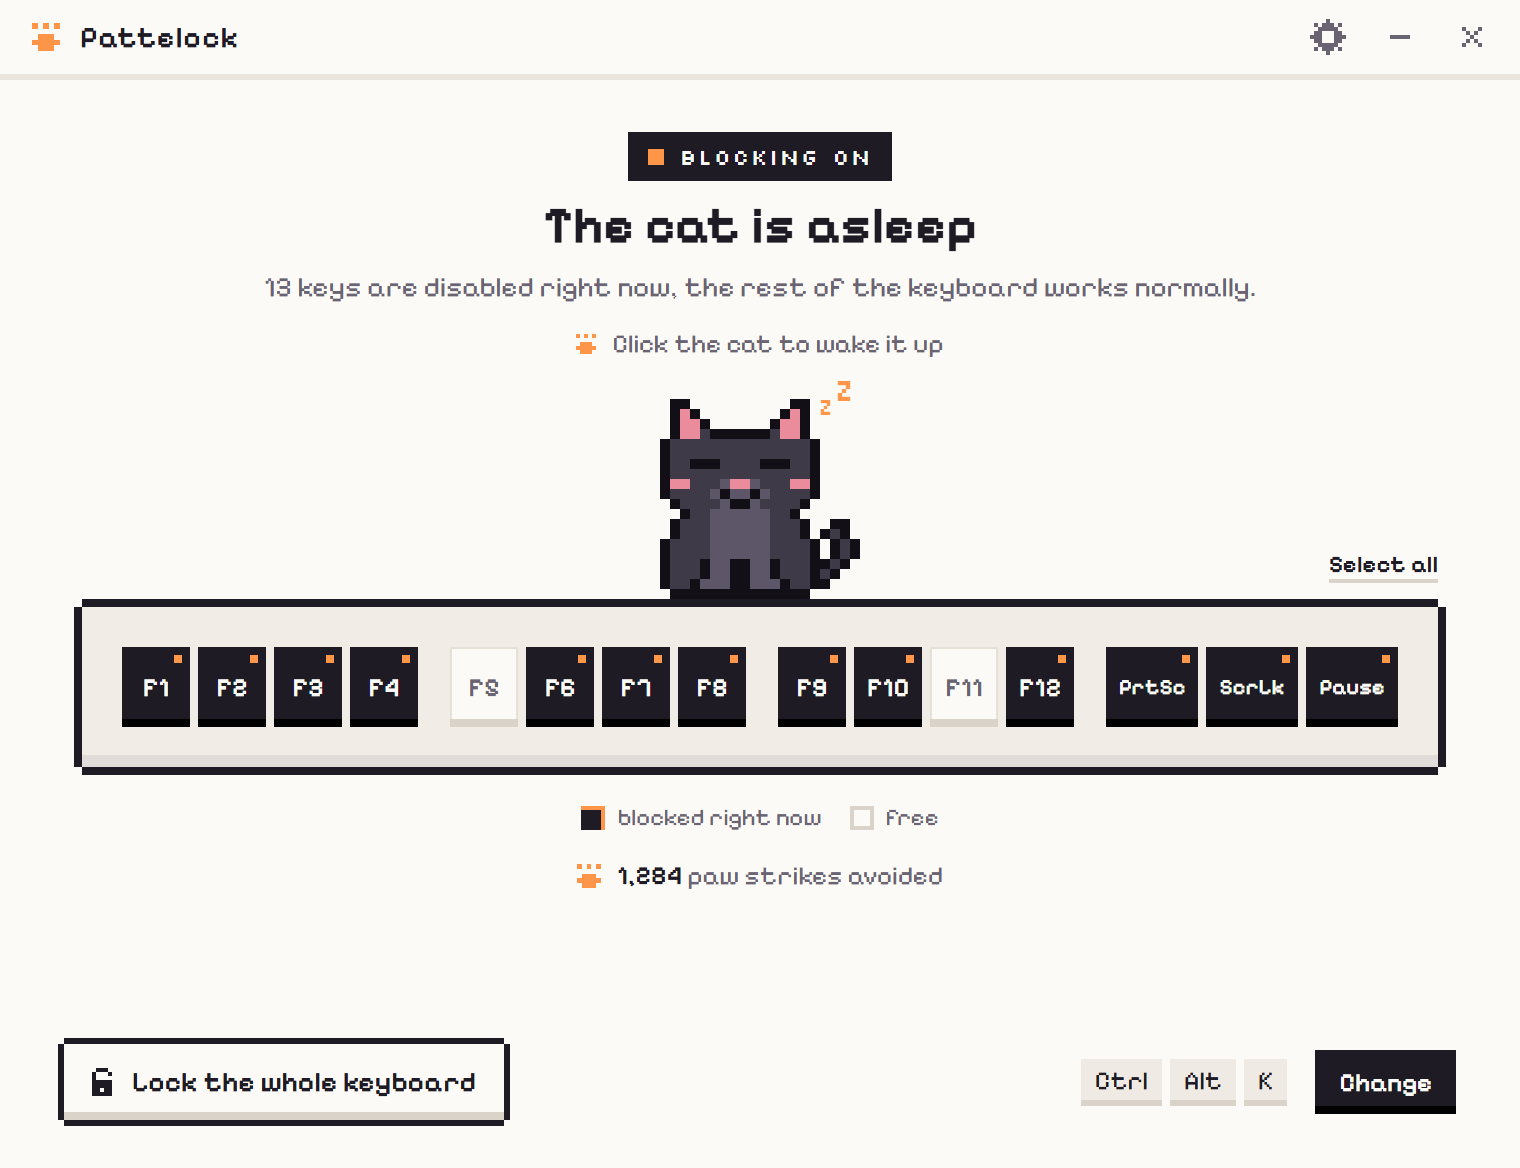
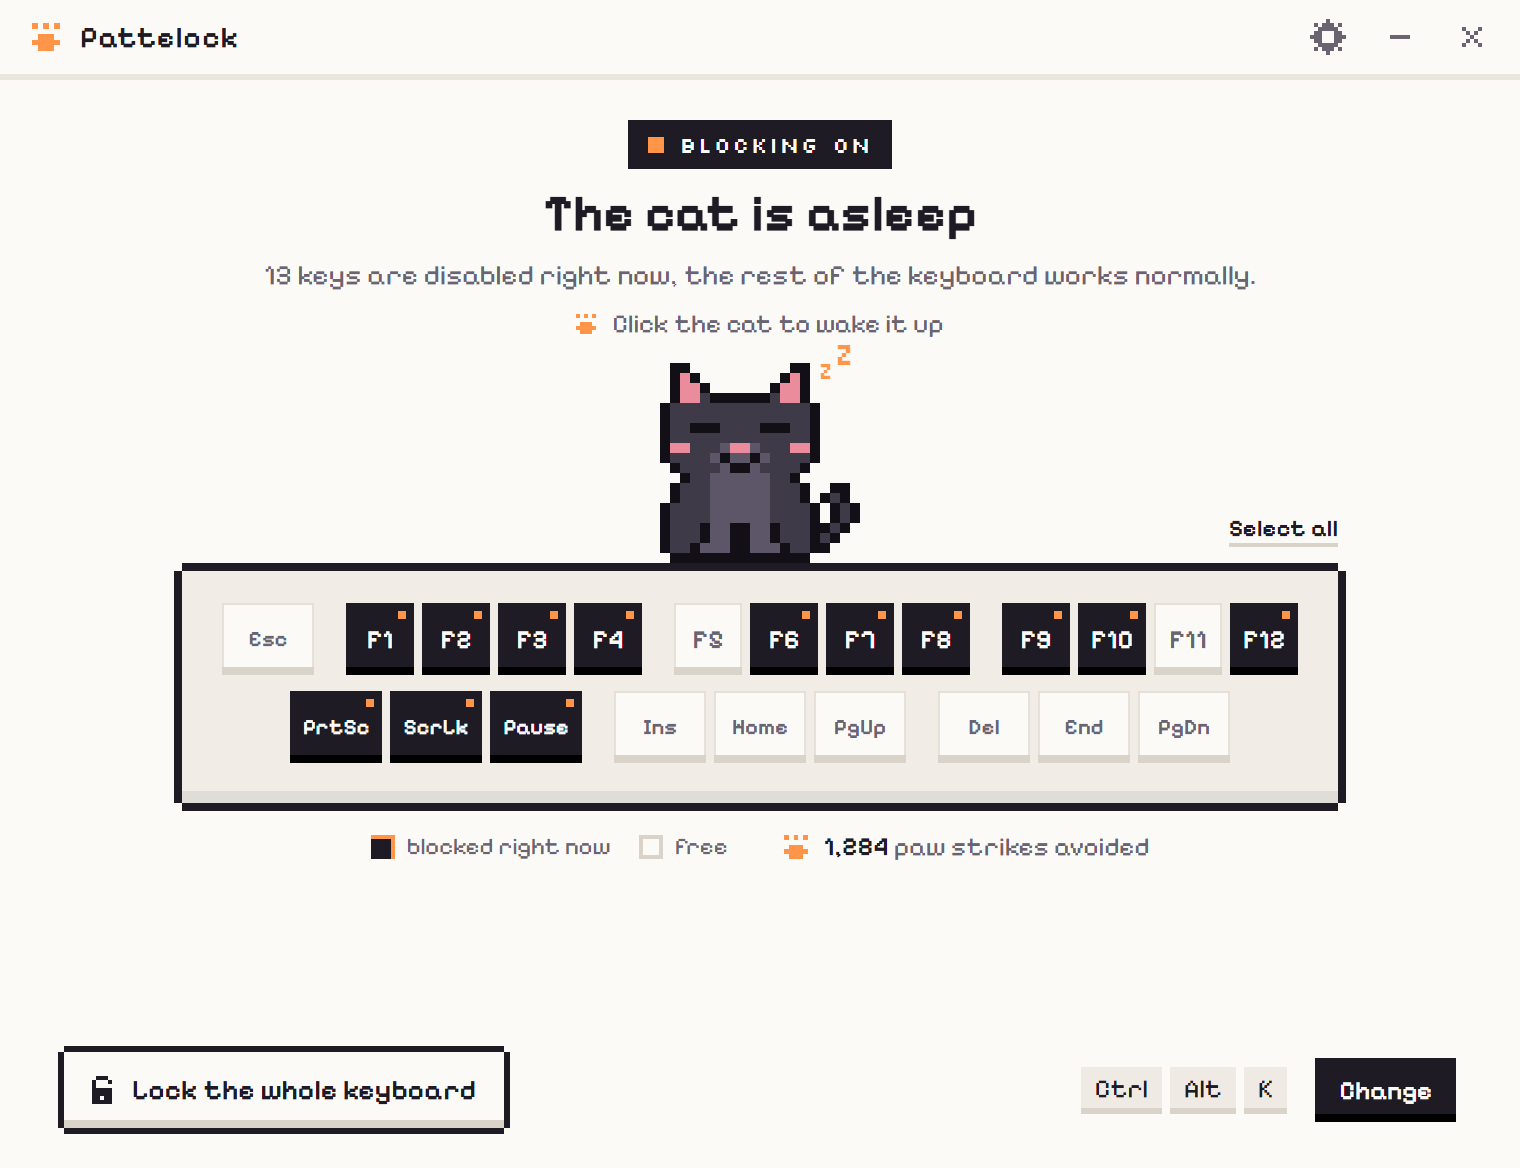
Fit the two-row strip in the window and refresh screenshots
Tighten the vertical spacing and put the legend and the counter on one
line, so the banner and the update bar still fit above the footer. Retake
the README screenshots with the new strip.

Changed region(s): [[0.0309, 0.0925, 0.9586, 0.7705], [0.0309, 0.863, 0.3401, 0.9863], [0.7112, 0.8938, 0.9586, 0.9863]]

diff --git a/src/styles/app.css b/src/styles/app.css
@@ -142,7 +142,7 @@ canvas {
 /* ---------- Écran principal ---------- */
 .body {
   flex: 1;
-  padding: 1.625rem 2rem 1.5rem;
+  padding: 1.25rem 2rem 1.25rem;
   display: flex;
   flex-direction: column;
   align-items: center;
@@ -195,7 +195,7 @@ canvas {
   color: var(--muted);
 }
 .hint {
-  margin-top: 0.75rem;
+  margin-top: 0.5rem;
   display: flex;
   align-items: center;
   gap: 0.5rem;
@@ -213,14 +213,14 @@ canvas {
 
 /* ---------- Bande clavier et chat ---------- */
 .strip {
-  margin-top: 7.75rem;
+  margin-top: 7.25rem;
   position: relative;
-  padding: 1.25rem;
+  padding: 1rem 1.25rem 1.25rem;
   background: var(--strip);
   display: flex;
   flex-direction: column;
   align-items: center;
-  gap: 0.75rem;
+  gap: 0.5rem;
   box-shadow:
     var(--notch4),
     inset 0 -0.375rem 0 0 var(--strip-shade);
@@ -303,7 +303,7 @@ canvas {
 .key {
   position: relative;
   width: 2.125rem;
-  height: 2.5rem;
+  height: 2.25rem;
   padding: 0;
   font-size: 0.8125rem;
   font-weight: 600;
@@ -357,8 +357,15 @@ canvas {
 .linkbtn:hover {
   box-shadow: inset 0 -0.125rem 0 0 var(--accent);
 }
+.meta {
+  margin-top: 0.875rem;
+  display: flex;
+  flex-wrap: wrap;
+  justify-content: center;
+  align-items: center;
+  gap: 0.375rem 1.75rem;
+}
 .legend {
-  margin-top: 1.125rem;
   display: flex;
   align-items: center;
   gap: 0.875rem;
@@ -390,7 +397,6 @@ canvas {
   background: var(--accent);
 }
 .activity {
-  margin-top: 0.875rem;
   display: flex;
   align-items: center;
   gap: 0.5rem;
@@ -481,7 +487,7 @@ kbd {
 
 /* Mise à jour disponible, sous le compteur. */
 .update-bar {
-  margin-top: 0.875rem;
+  margin-top: 0.625rem;
   display: flex;
   align-items: center;
   gap: 0.5rem;
@@ -688,7 +694,7 @@ kbd {
   box-shadow: inset 0 -0.25rem 0 0 var(--ink-edge);
 }
 .banner {
-  margin-top: 0.75rem;
+  margin: 0.625rem 0 0;
   padding: 0.375rem 0.75rem;
   background: var(--kbd);
   color: var(--ink);

diff --git a/src/ui/mainView.ts b/src/ui/mainView.ts
@@ -92,8 +92,8 @@ export function createMainView(handlers: MainHandlers): MainView {
     h("div", { class: "status" }, h("div", { class: "badge" }, led, tag), title, sub),
     h("div", { class: "hint" }, paw(), hint),
     strip,
-    legend,
-    activity,
+    // Légende et compteur sur une même ligne : la bande à deux rangées prend de la hauteur.
+    h("div", { class: "meta" }, legend, activity),
     banner,
     updateBar,
     h("div", { class: "footer" }, lockall, shortcut),
